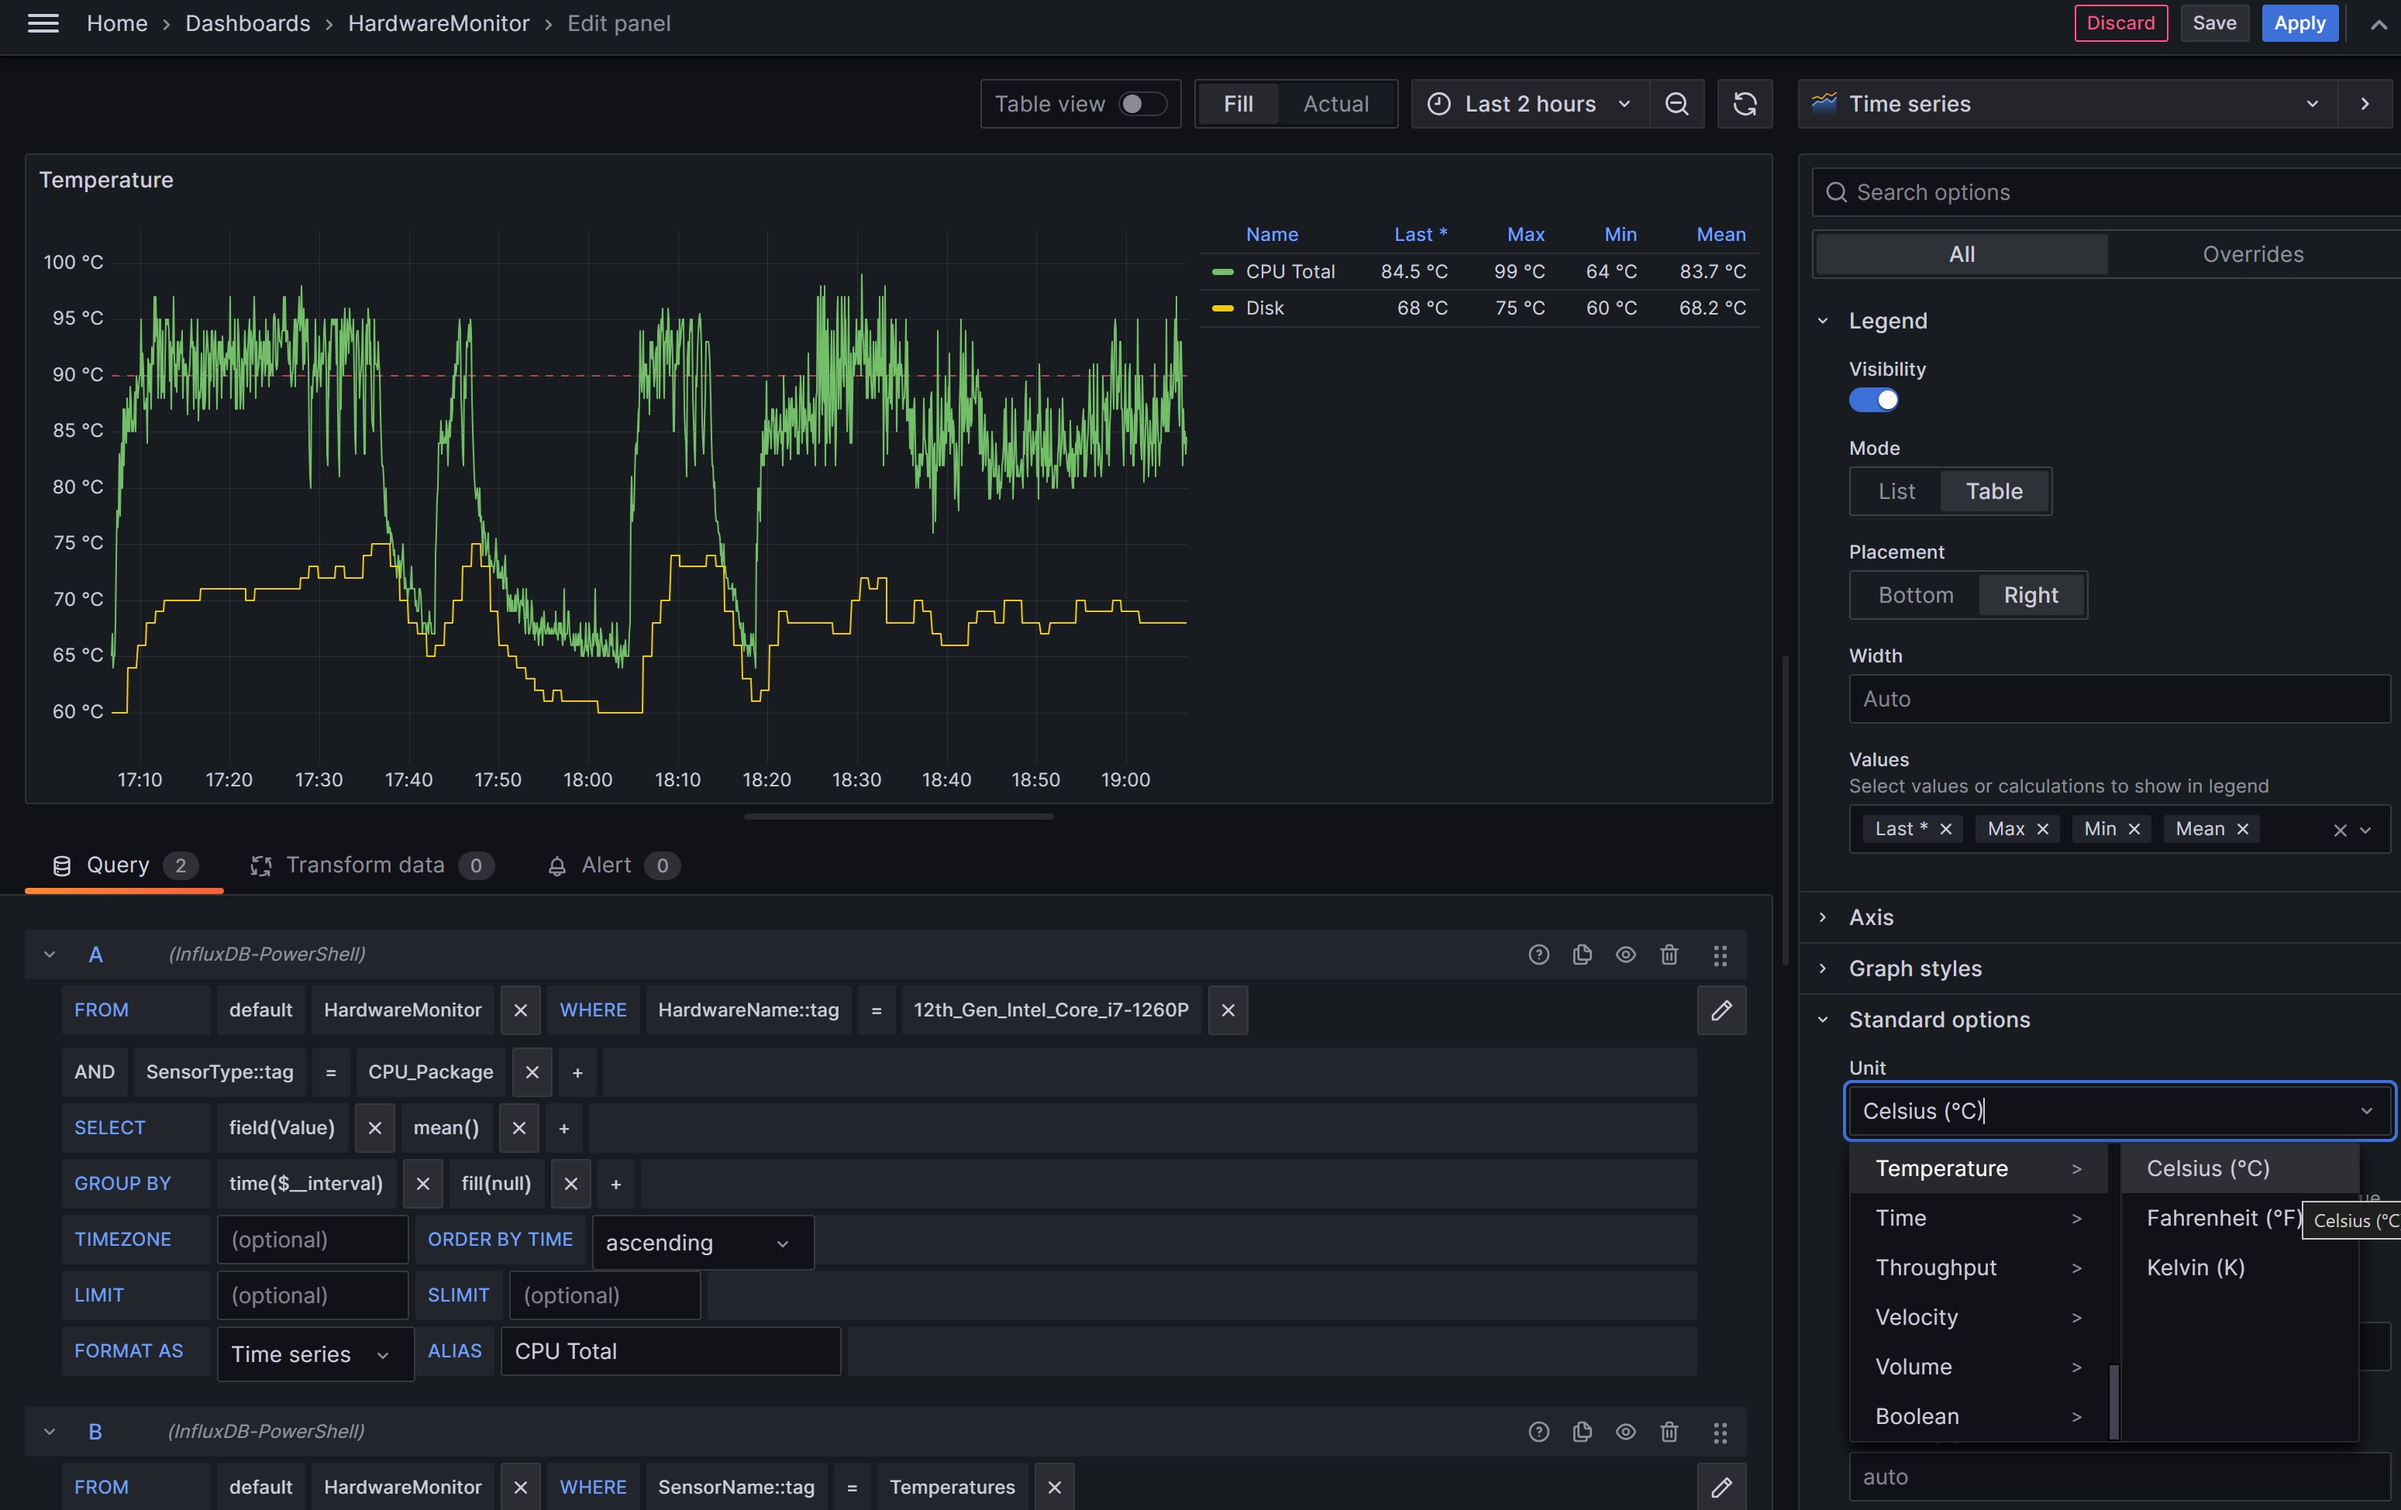
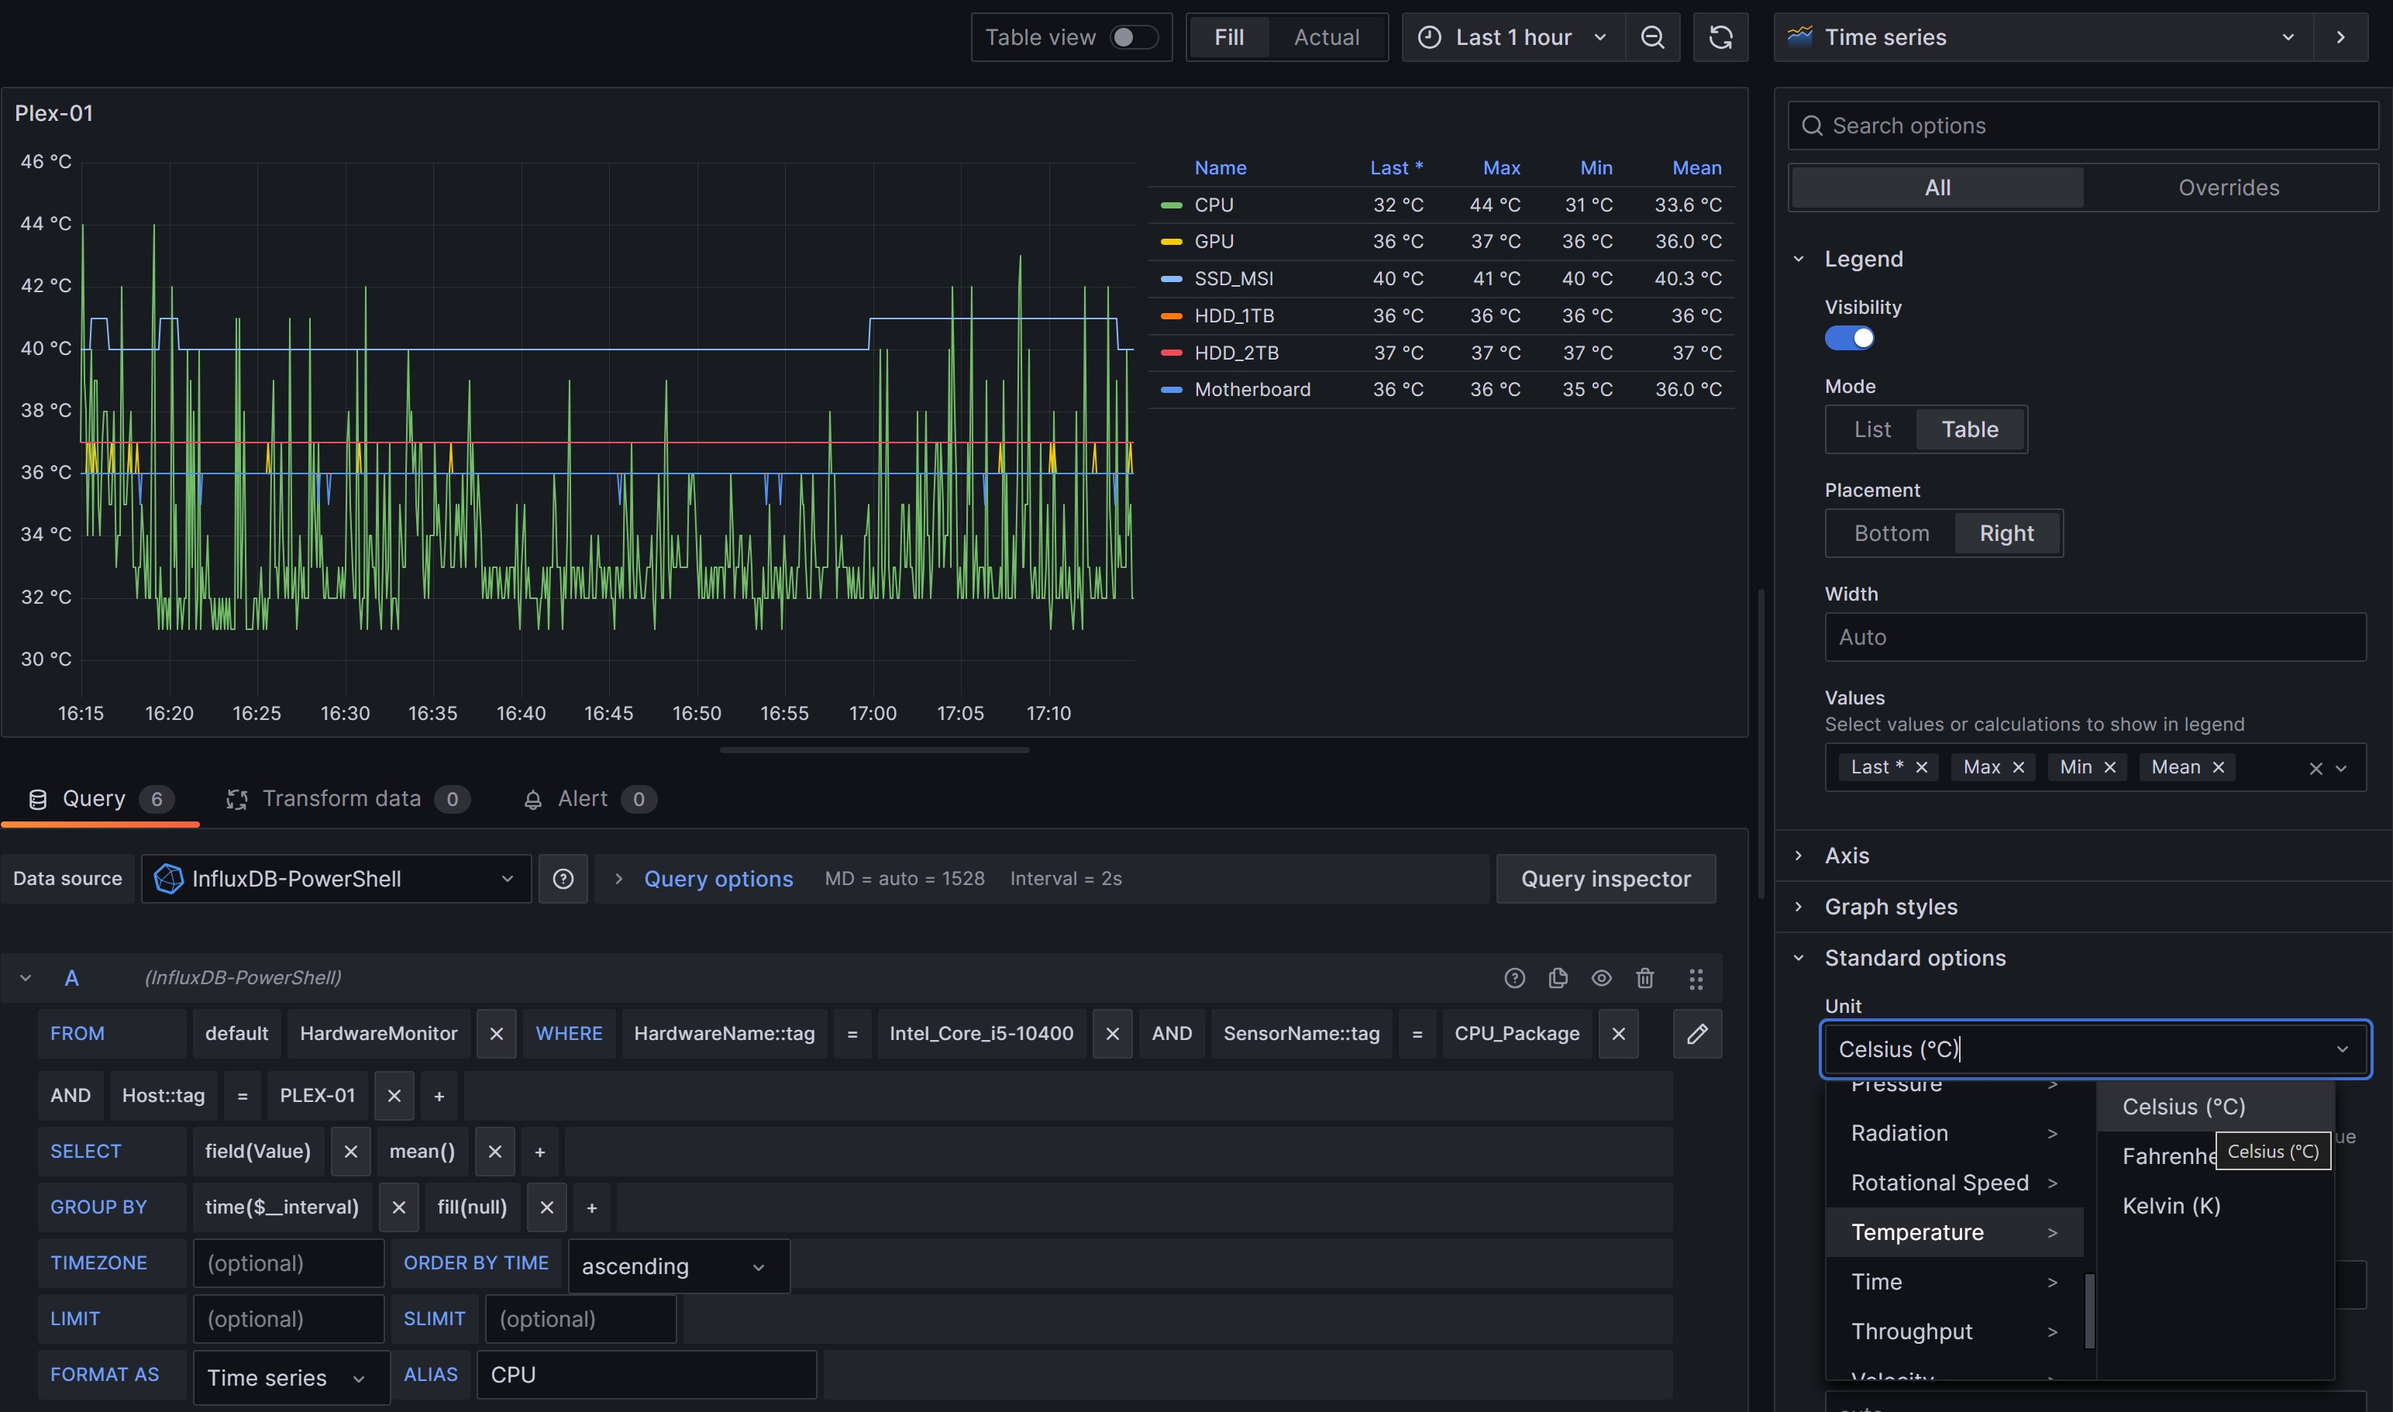
Added update exmaples

diff --git a/README.md b/README.md
@@ -543,10 +543,14 @@ The example shows the very same indicator that we have recorded in the database:
 
 ![Image alt](https://github.com/Lifailon/PowerShellHardwareMonitor/blob/rsa/Screen/Grafana-Dashboard.jpg)
 
-First, filter the data by HardwareName and SensorType tags and set each request to a different name using GUI:
+For simple setting (without using variables or regular expressions), use filters to select the sensors you need:
 
 ![Image alt](https://github.com/Lifailon/PowerShellHardwareMonitor/blob/rsa/Screen/InfluxDB-Query.jpg)
 
 For clarity and convenience, customize the celsius and legends data type (displaying minimum, maximum, and average readings for the specified time period).
 
 ![Image alt](https://github.com/Lifailon/PowerShellHardwareMonitor/blob/rsa/Screen/Grafana-Legend-Unit.jpg)
+
+Monitoring my two hosts:
+
+![Image alt](https://github.com/Lifailon/PowerShellHardwareMonitor/blob/rsa/Screen/Grafana-Dashboard-Two-Host.jpg)
